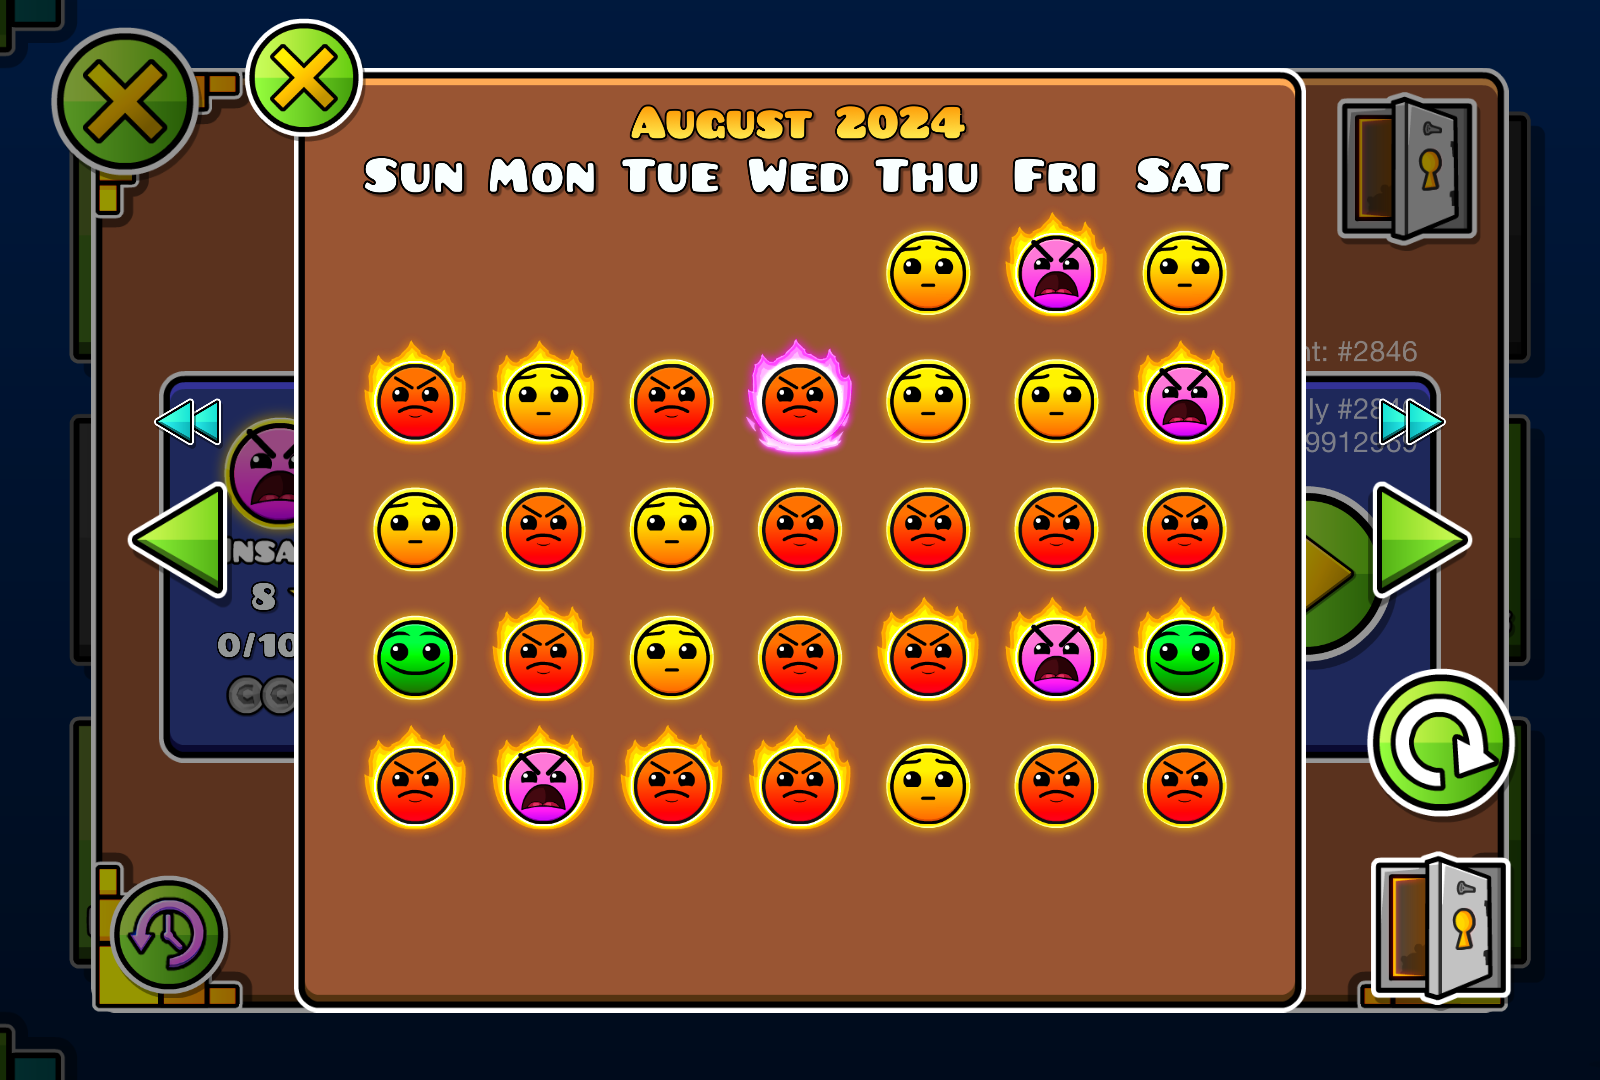
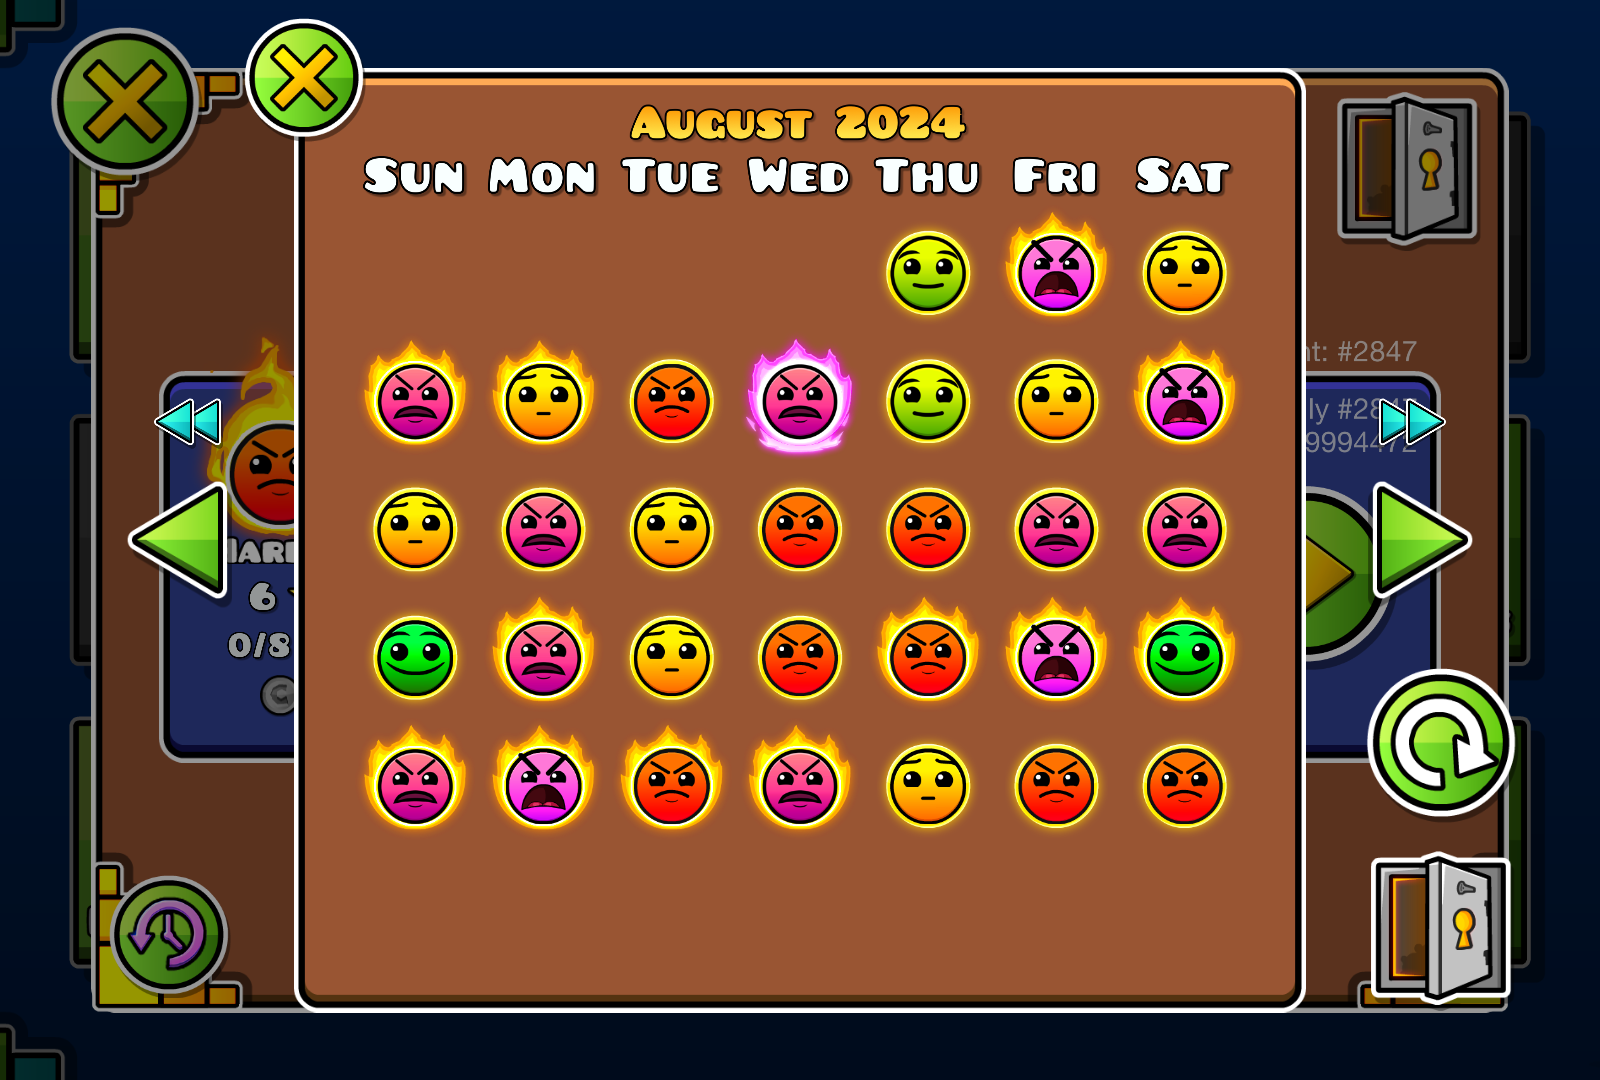
more difficulties

diff --git a/src/BSCalendarPopup.cpp b/src/BSCalendarPopup.cpp
@@ -275,8 +275,24 @@ void BSCalendarPopup::setupMonth() {
         if (gameLevelIt == levels.end()) continue;
         auto gameLevel = *gameLevelIt;
 
-        auto diffIcon = CCSprite::createWithSpriteFrameName(safeLevel.difficulty == -1 ?
-            "diffIcon_auto_btn_001.png" : fmt::format("diffIcon_{:02d}_btn_001.png", safeLevel.difficulty).c_str());
+        auto diffFrame = safeLevel.difficulty == -1 ? "diffIcon_auto_btn_001.png" : fmt::format("diffIcon_{:02d}_btn_001.png", safeLevel.difficulty);
+        if (auto moreDifficulties = Loader::get()->getLoadedMod("uproxide.more_difficulties")) {
+            auto legacy = moreDifficulties->getSettingValue<bool>("legacy-difficulties");
+            if (moreDifficulties->getSavedValue<bool>("casual", true) && safeLevel.difficulty == 3 && safeLevel.stars == 4)
+                diffFrame = legacy ? "uproxide.more_difficulties/MD_Difficulty04Small_Legacy.png" : "uproxide.more_difficulties/MD_Difficulty04Small.png";
+            else if (moreDifficulties->getSavedValue<bool>("tough", true) && safeLevel.difficulty == 4 && safeLevel.stars == 7)
+                diffFrame = legacy ? "uproxide.more_difficulties/MD_Difficulty07Small_Legacy.png" : "uproxide.more_difficulties/MD_Difficulty07Small.png";
+            else if (moreDifficulties->getSavedValue<bool>("cruel", true) && safeLevel.difficulty == 5 && safeLevel.stars == 9)
+                diffFrame = legacy ? "uproxide.more_difficulties/MD_Difficulty09Small_Legacy.png" : "uproxide.more_difficulties/MD_Difficulty09Small.png";
+        }
+        auto hasBetweenDemon = false;
+        if (auto demonsInBetween = Loader::get()->getLoadedMod("hiimjustin000.demons_in_between")) {
+            if (demonsInBetween->getSettingValue<bool>("enable-difficulties") && safeLevel.tier > 0) {
+                diffFrame = fmt::format("hiimjustin000.demons_in_between/DIB_{:02d}_001.png", DIFFICULTY_INDICES[safeLevel.tier]);
+                hasBetweenDemon = true;
+            }
+        }
+        auto diffIcon = CCSprite::createWithSpriteFrameName(diffFrame.c_str());
         diffIcon->setScale(0.75f);
         auto featureFrame = "";
         switch (safeLevel.feature) {
@@ -288,6 +304,7 @@ void BSCalendarPopup::setupMonth() {
         if (safeLevel.feature > 0) {
             auto featureIcon = CCSprite::createWithSpriteFrameName(featureFrame);
             featureIcon->setPosition(diffIcon->getContentSize() / 2 + CCPoint { 0.0f, -5.5f });
+            if (hasBetweenDemon) featureIcon->setPositionY(9.5f);
             diffIcon->addChild(featureIcon, -2);
         }
         auto hoverButton = CCMenuItemExt::createSpriteExtra(diffIcon, [this, gameLevel, safeLevel](auto sender) {

diff --git a/src/BetterSafe.cpp b/src/BetterSafe.cpp
@@ -40,7 +40,8 @@ void BetterSafe::loadDailySafe(EventListener<web::WebTask>&& listenerRef, Loadin
                         .feature = PROPERTY_OR_DEFAULT(level, "feature", is_number, as_int, 0),
                         .coins = PROPERTY_OR_DEFAULT(level, "coins", is_number, as_int, 0),
                         .coinsVerified = PROPERTY_OR_DEFAULT(level, "coinsVerified", is_bool, as_bool, false),
-                        .weekly = false
+                        .weekly = false,
+                        .tier = PROPERTY_OR_DEFAULT(level, "tier", is_number, as_int, 0)
                     });
                 }
                 callback();
@@ -84,7 +85,8 @@ void BetterSafe::loadWeeklySafe(EventListener<web::WebTask>&& listenerRef, Loadi
                         .feature = PROPERTY_OR_DEFAULT(level, "feature", is_number, as_int, 0),
                         .coins = PROPERTY_OR_DEFAULT(level, "coins", is_number, as_int, 0),
                         .coinsVerified = PROPERTY_OR_DEFAULT(level, "coinsVerified", is_bool, as_bool, false),
-                        .weekly = true
+                        .weekly = true,
+                        .tier = PROPERTY_OR_DEFAULT(level, "tier", is_number, as_int, 0)
                     });
                 }
                 callback();

diff --git a/src/BSCalendarPopup.hpp b/src/BSCalendarPopup.hpp
@@ -6,6 +6,10 @@ public:
     inline static std::vector<std::string> MONTHS = {
         "January", "February", "March", "April", "May", "June", "July", "August", "September", "October", "November", "December"
     };
+    inline static std::vector<int> DIFFICULTY_INDICES = {
+        0, 1, 2, 3, 4, 5, 6, 7, 8, 9, 10, 11, 11, 12, 13, 14, 14, 15, 15,
+        16, 17, 18, 19, 20, 20, 20, 20, 20, 20, 20, 20, 20, 20, 20, 20, 20
+    };
 protected:
     EventListener<web::WebTask> m_listener;
     bool m_weekly;

diff --git a/src/BetterSafe.hpp b/src/BetterSafe.hpp
@@ -21,6 +21,7 @@ struct SafeLevel {
     int coins;
     bool coinsVerified;
     bool weekly;
+    int tier;
 };
 
 class BetterSafe {

diff --git a/changelog.md b/changelog.md
@@ -1,4 +1,7 @@
 # Better Safe Changelog
+## v1.0.2 (2024-09-12)
+- Added More Difficulties and Demons In Between support
+
 ## v1.0.1 (2024-09-12)
 - Fixed an incompatibility with the mod "Overcharged Main Menu" by Weebify and ninXout
 - Fixed some issues with the level previews
